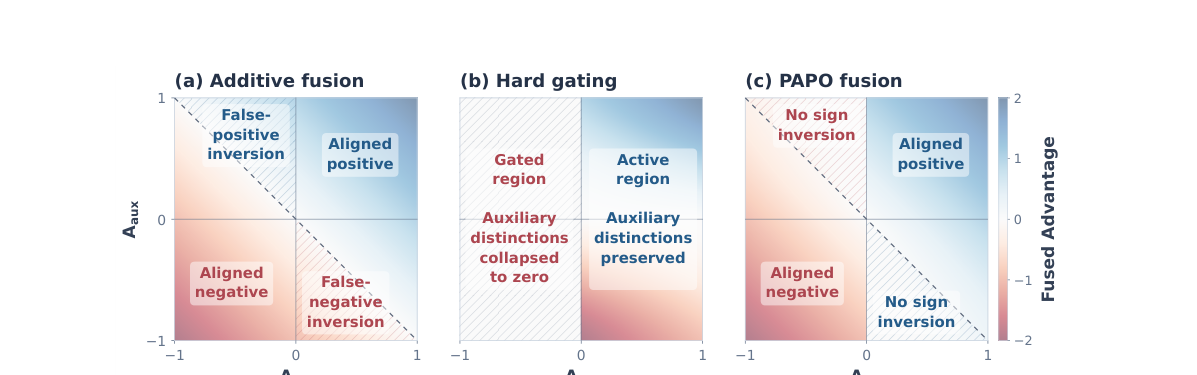
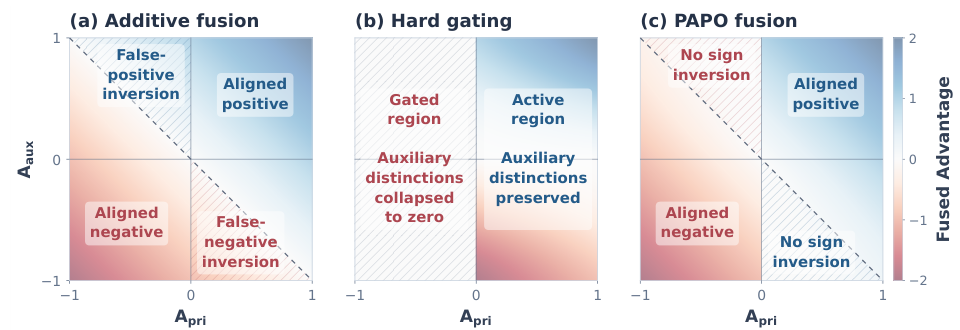
Include full primary-advantage axis labels in teaser

diff --git a/papo-project/index.html b/papo-project/index.html
@@ -7,7 +7,7 @@
 </head><body>
 <nav aria-label="Main navigation"><a class="brand" href="https://xiangchi-yuan.github.io/">XY <span>/ Research</span></a><div><a href="#abstract">Abstract</a><a href="#method">Method</a><a href="#results">Results</a><a href="https://xiangchi-yuan.github.io/ram-project/">More research ↗</a></div></nav>
 <main><header class="hero"><p class="eyebrow">MULTI-REWARD REINFORCEMENT LEARNING</p><h1>Advantage Aggregation with Priority for Multi-Reward Policy Optimization</h1><p class="subtitle"><strong>PAPO</strong> · Primary Advantage Policy Optimization</p><div class="authors"><span><a href="https://openreview.net/profile?id=~Xiangchi_Yuan1">Xiangchi Yuan</a><sup>1</sup></span>, <span><a href="https://openreview.net/profile?id=~Xingjian_Diao1">Xingjian Diao</a><sup>2</sup></span>, <span><a href="https://openreview.net/profile?id=~Zheyuan_Liu3">Zheyuan Liu</a><sup>3</sup></span>, <span><a href="https://openreview.net/profile?id=~Chunhui_Zhang1">Chunhui Zhang</a><sup>2</sup></span>, <span><a href="https://openreview.net/profile?id=~Dachuan_Shi2">Dachuan Shi</a><sup>1</sup></span>, <span><a href="https://openreview.net/profile?id=~Kejing_Xia1">Kejing Xia</a><sup>1</sup></span>, <span><a href="https://openreview.net/profile?id=~Zhenbang_Du1">Zhenbang Du</a><sup>1</sup></span>, <span><a href="https://openreview.net/profile?id=~Shenglong_Yao1">Shenglong Yao</a><sup>1</sup></span>, <span><a href="https://openreview.net/profile?id=~Soroush_Vosoughi1">Soroush Vosoughi</a><sup>2</sup></span>, <span><a href="https://openreview.net/profile?id=~Wenke_Lee1">Wenke Lee</a><sup>1</sup></span></div><p class="institutions"><span><sup>1</sup>Georgia Institute of Technology</span><span><sup>2</sup>Dartmouth College</span><span><sup>3</sup>University of Notre Dame</span></p><div class="actions"><a class="button" href="https://xiangchi-yuan.github.io/data/ICLR_2027_Advantage_Integration.pdf">↗ Read the paper</a><a class="button secondary" href="#results">Explore results ↓</a></div><p class="tagline">Keep the task first.<br><span>Make auxiliary rewards work with it.</span></p>
-<figure><a href="static/images/priority-inversion.png" aria-label="View advantage aggregation figure at full resolution"><img src="static/images/priority-inversion.png" width="1197" height="375" alt="Comparison of additive fusion, hard gating, and PAPO fusion across primary and auxiliary advantages"></a><figcaption><strong>The priority problem.</strong> Additive fusion can reverse the primary advantage. Hard gating discards auxiliary distinctions. PAPO bounds conflicting signals while preserving aligned supervision. Figure 1 from the paper.</figcaption></figure></header>
+<figure><a href="static/images/priority-inversion.png" aria-label="View advantage aggregation figure at full resolution"><img src="static/images/priority-inversion.png" width="960" height="330" alt="Comparison of additive fusion, hard gating, and PAPO fusion across primary and auxiliary advantages"></a><figcaption><strong>The priority problem.</strong> Additive fusion can reverse the primary advantage. Hard gating discards auxiliary distinctions. PAPO bounds conflicting signals while preserving aligned supervision. Figure 1 from the paper.</figcaption></figure></header>
 <section class="tinted" id="abstract"><div class="narrow"><h2>Abstract</h2><p class="tldr"><strong>TL;DR.</strong> Auxiliary rewards should refine how a task is solved, without overturning the primary objective. PAPO makes this priority explicit when combining advantages.</p><p>Multi-reward reinforcement learning (RL) is increasingly used to optimize large language models for both task performance and auxiliary behavioral objectives, such as concise reasoning and efficient tool use. However, existing approaches typically combine objective-specific rewards or advantages symmetrically, implicitly allowing auxiliary objectives to influence the policy update as strongly as the task-defining objective. We term this <em>advantage priority inversion</em>: when primary and auxiliary advantages conflict, a sufficiently strong auxiliary signal can reverse the update direction preferred by the primary objective.</p><p>In light of this, we propose Primary Advantage Policy Optimization (PAPO), a priority-aware framework for multi-reward policy optimization. PAPO explicitly distinguishes primary and auxiliary objectives and performs asymmetric advantage aggregation. Auxiliary advantages are fully preserved when they agree with the primary signal, but are softly bounded under conflict so that they cannot overturn the primary optimization direction. The framework applies naturally to both sequence-level GRPO and token-level PPO; for PPO, we additionally use a multi-head critic to estimate objective-specific returns before advantage fusion. We evaluate PAPO on competition-level mathematical reasoning and agentic tool use with multiple rewards across PPO- and GRPO-based training. PAPO consistently improves primary-task performance while retaining strong auxiliary-objective performance.</p></div></section>
 <section class="content" id="motivation"><p class="eyebrow">01 / MOTIVATION</p><h2>When efficiency overrides correctness</h2><p>A shorter answer is useful when it is correct. Fewer tool calls are useful when the task still succeeds. Yet a large auxiliary advantage can overwhelm a conflicting primary advantage under a weighted sum.</p><div class="comparison"><article><span class="small-label">PRIMARY OBJECTIVE</span><h3>Solve the task</h3><p>Answer correctly or complete the tool-use task.</p></article><span class="versus" aria-hidden="true">+</span><article><span class="small-label">AUXILIARY OBJECTIVE</span><h3>Solve it efficiently</h3><p>Use fewer reasoning tokens or fewer tool calls.</p></article></div><p class="callout"><strong>Advantage priority inversion:</strong> an update can reward a response with a negative primary advantage, simply because its auxiliary advantage is large enough.</p></section>
 <section class="content" id="method"><p class="eyebrow">02 / METHOD</p><h2>Preserve agreement. Bound conflict.</h2><p>PAPO estimates objective-specific advantages before combining them. Aligned signals add together; conflicting auxiliary signals are smoothly bounded relative to the primary advantage.</p><figure><a href="static/images/method.png"><img loading="lazy" src="static/images/method.png" width="1194" height="450" alt="PAPO architecture: sequence-level advantage aggregation for GRPO and a multi-head critic with token-level aggregation for PPO"></a><figcaption><strong>One fusion rule, two optimization families.</strong> GRPO combines sequence-level advantages. PPO uses objective-specific value heads and GAE before token-level fusion. Figure 2 from the paper.</figcaption></figure><div class="two-col"><article><h3>Sequence-level GRPO</h3><p>Independently normalize each objective within the rollout group, fuse primary and auxiliary advantages, then normalize the fused group before optimization.</p></article><article><h3>Token-level PPO</h3><p>Use a multi-head critic to estimate each objective’s return. Compute GAE separately and apply PAPO at each token, keeping critic targets unfused.</p></article></div>
